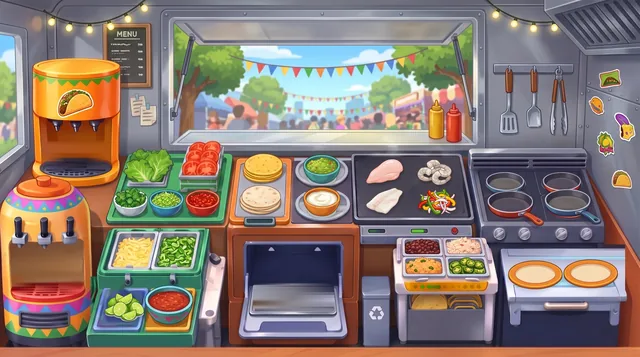
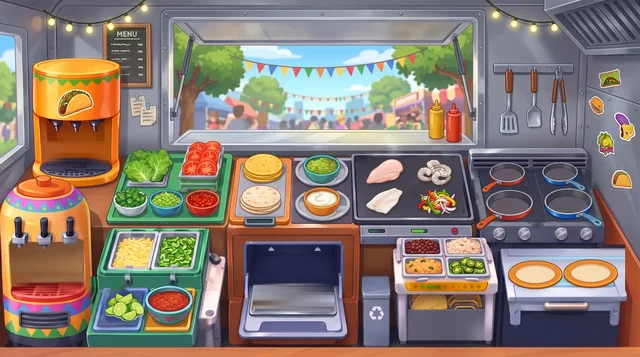
Taco Truck: sounds, reduced motion for customers, new thumbnail with pans
Claude-Session: https://claude.ai/code/session_018YusWUuj7FkibTRprC8Hz6

Changed region(s): [[0.7188, 0.4314, 0.9375, 0.6471]]

diff --git a/src/views/TacoCustomers.ts b/src/views/TacoCustomers.ts
@@ -2,6 +2,7 @@ import Phaser from 'phaser';
 import { LOOK_ART, clipFor, type LookClip } from '../anim/customerMotion';
 import type { BackgroundPlacement } from '../kitchen/zones';
 import type { TacoCustomer, TacoKitchenState } from '../game/taco/TacoKitchenState';
+import { SaveSystem } from '../systems/SaveSystem';
 import { sheetKey, spriteKey } from './TacoViews';
 
 const FONT = 'Fredoka, "Baloo 2", system-ui, sans-serif';
@@ -76,7 +77,7 @@ export class TacoCustomers {
   /** A short happy hop when an order is complete. */
   celebrate(id: number): void {
     const v = this.views.get(id);
-    if (!v) return;
+    if (!v || SaveSystem.reduceMotion()) return; // the floating +coins text still shows
     this.scene.tweens.add({ targets: v.body, y: v.bottomY - 22, duration: 140, yoyo: true, ease: 'Quad.easeOut' });
   }
 
@@ -105,8 +106,10 @@ export class TacoCustomers {
     const bar = this.scene.add.graphics().setDepth(UI_DEPTH);
     const v: View = { id: c.id, body, bubble, bubbleKey: '', bar, clip: calm.key, x, bottomY, leaving: false };
     this.views.set(c.id, v);
-    body.setAlpha(0);
-    this.scene.tweens.add({ targets: body, alpha: 1, duration: 250 });
+    if (!SaveSystem.reduceMotion()) {
+      body.setAlpha(0);
+      this.scene.tweens.add({ targets: body, alpha: 1, duration: 250 });
+    }
     return v;
   }
 
@@ -176,6 +179,11 @@ export class TacoCustomers {
     v.leaving = true;
     v.bubble.setVisible(false);
     v.bar.clear();
+    if (SaveSystem.reduceMotion()) {
+      this.kill(v);
+      this.views.delete(v.id);
+      return;
+    }
     this.scene.tweens.add({
       targets: v.body,
       alpha: 0,

diff --git a/src/views/TacoSounds.ts b/src/views/TacoSounds.ts
@@ -1,0 +1,41 @@
+import type { TacoEvent } from '../game/taco/TacoKitchenState';
+import type { Sfx } from '../systems/AudioSystem';
+
+/** Which existing sound effect a kitchen event makes (null = silent). Reuses the diner's sounds; no new audio files. */
+export function sfxFor(e: TacoEvent): Sfx | null {
+  switch (e.type) {
+    case 'proteinStart':
+    case 'ovenStart':
+    case 'pressStart':
+    case 'drinkStart':
+    case 'buildStart':
+    case 'stepAdded':
+    case 'collect':
+      return 'pop';
+    case 'panPhase':
+    case 'ovenPhase':
+    case 'drinkPhase':
+      return e.phase === 'ready' ? 'ding' : null;
+    case 'dishDone':
+    case 'arrive':
+      return 'ding';
+    case 'deliver':
+      return 'drop';
+    case 'orderDone':
+      return 'coin';
+    case 'burnt':
+      return 'burn';
+    case 'discard':
+      return e.penalty ? 'wrong' : 'drop';
+    case 'wrongDrop':
+    case 'invalid':
+    case 'angryLeave':
+      return 'wrong';
+    case 'levelUp':
+      return 'levelUp';
+    case 'closed':
+      return 'close';
+    default:
+      return null;
+  }
+}

diff --git a/tests/taco_sounds.test.ts b/tests/taco_sounds.test.ts
@@ -1,0 +1,19 @@
+import { describe, expect, it } from 'vitest';
+import { sfxFor } from '../src/views/TacoSounds';
+
+describe('sfxFor', () => {
+  it('rings only when something becomes ready, not while it cooks', () => {
+    expect(sfxFor({ type: 'panPhase', pan: 0, phase: 'ready' })).toBe('ding');
+    expect(sfxFor({ type: 'panPhase', pan: 0, phase: 'cooking' })).toBeNull();
+  });
+  it('maps key moments to existing sounds', () => {
+    expect(sfxFor({ type: 'burnt', where: 'pan', index: 0 })).toBe('burn');
+    expect(sfxFor({ type: 'orderDone', customer: 1, coins: 5, tip: 0, xp: 1, fast: false, rush: false, combo: 1, mult: 1 })).toBe('coin');
+    expect(sfxFor({ type: 'wrongDrop', plate: 0, customer: null })).toBe('wrong');
+    expect(sfxFor({ type: 'closed' })).toBe('close');
+  });
+  it('stays silent for bookkeeping events', () => {
+    expect(sfxFor({ type: 'comboChanged', combo: 1, max: 1, broken: false })).toBeNull();
+    expect(sfxFor({ type: 'reopened' })).toBeNull();
+  });
+});

diff --git a/src/scenes/TacoScene.ts b/src/scenes/TacoScene.ts
@@ -9,6 +9,7 @@ import { SaveSystem } from '../systems/SaveSystem';
 import { loadTacoArt, sheetKey, spriteKey, TacoViews } from '../views/TacoViews';
 import { TacoCustomers } from '../views/TacoCustomers';
 import { audio } from '../systems/AudioSystem';
+import { sfxFor } from '../views/TacoSounds';
 import { LOGICAL_HEIGHT, LOGICAL_WIDTH } from './BootScene';
 
 const FONT = 'Fredoka, "Baloo 2", system-ui, sans-serif';
@@ -77,6 +78,8 @@ export class TacoScene extends Phaser.Scene {
     if (this.panelOpen) return;
     this.state.update(Math.min(delta, 100) / 1000);
     for (const e of this.state.events) {
+      const sfx = sfxFor(e);
+      if (sfx) audio.play(sfx);
       if (e.type === 'invalid') this.say(e.message);
       else if (e.type === 'orderDone') {
         this.customers.celebrate(e.customer);

diff --git a/src/systems/AudioSystem.ts b/src/systems/AudioSystem.ts
@@ -4,7 +4,7 @@ import { SaveSystem } from './SaveSystem';
  * All sound is synthesized with WebAudio, no files. The context is created and resumed
  * on the first user gesture so browser autoplay rules are respected.
  */
-type Sfx = 'tap' | 'ding' | 'coin' | 'burn' | 'levelUp' | 'click' | 'drop' | 'wrong' | 'pop' | 'close';
+export type Sfx = 'tap' | 'ding' | 'coin' | 'burn' | 'levelUp' | 'click' | 'drop' | 'wrong' | 'pop' | 'close';
 
 export class AudioSystem {
   private ctx: AudioContext | null = null;

diff --git a/HANDOFF.md b/HANDOFF.md
@@ -566,3 +566,8 @@ Start from the latest `main`, inspect the current repository and docs first, and
 ## Step 4c drinks (done, uncommitted)
 TacoViews.syncCups draws a cup per dispenser lane from model.pours (cupFrame helper: levels 1-3 filling, 4 full); TacoScene lets a full cup be dragged from its lane to a customer (serveFromPour); half-filled cups cannot be picked up. Test: tests/taco_cups.test.ts. Checked with headless screenshots (cups fill, drag works). Remaining step 4d: sounds, reduced motion, leave animations, tutorial hint, balance; thumb.webp regeneration.
 Pan layout fix: back pans drawn behind the front pair, 10% smaller and lifted 2.5% of the kitchen height (BACK_PAN_SCALE/BACK_PAN_LIFT in TacoViews); idle pans use the clean empty frame of the fish sheet.
+
+## Step 4d (partly done, uncommitted)
+Done: sounds (src/views/TacoSounds.ts sfxFor maps kitchen events to existing sfx; played in TacoScene.update; test tests/taco_sounds.test.ts), reduced motion in TacoCustomers (no hop/fade), taco thumb.webp regenerated with empty pans.
+Not done: lazy leave clips (ghosts just fade), tutorial hint, balance pass, real-device test, Android/browser branch transfer plan.
+
